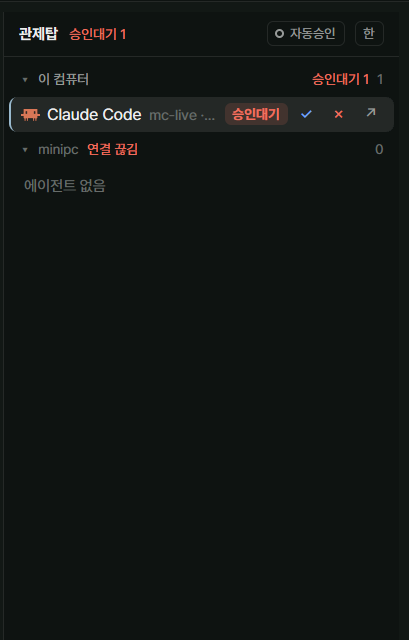
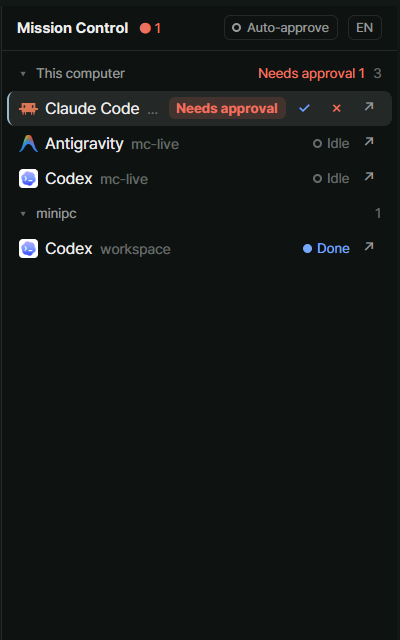
Show the preview in English and keep the top bar within 320px
In English and other long languages the top bar was wider than the
panel and the language button was pushed off its edge. The counts are
now a dot and a number (the words are in the tooltip and in each group
header), and the title is the part that shrinks.

Shorten the "needs approval" word in French, Spanish, Portuguese and
German so a waiting row keeps its three buttons, and test that every
status word stays within 14 characters.

diff --git a/mods/mission-control/ui.js b/mods/mission-control/ui.js
@@ -98,7 +98,16 @@ export function logBar(t, log, open, onToggle) {
 
 /** The top bar: title, how many need the person, auto-approve, the language switch. */
 export function topBar(t, sum, auto, onAuto, onLang) {
-  const chip = (status) => div().flex_none().text_size(11).text_color(t[status] ?? t.dim).child(`${tr(status)} ${sum[status]}`);
+  // A dot and a number: the words differ a lot in length between languages
+  // ("Braucht Freigabe"), and the bar must always have room for its two buttons.
+  // The words are in the tooltip and in each group's header.
+  const chip = (status) => div()
+    .id(`mc-sum-${status}`)
+    .flex_none()
+    .text_size(11)
+    .text_color(t[status] ?? t.dim)
+    .tooltip(`${tr(status)} ${sum[status]}`)
+    .child(`● ${sum[status]}`);
   return h_flex()
     .px(12)
     .h(36)
@@ -107,10 +116,11 @@ export function topBar(t, sum, auto, onAuto, onLang) {
     .items_center()
     .border_b(1)
     .border_color(t.border)
-    .child(div().text_size(12).font_semibold().text_color(t.foreground).child(tr("title")))
+    // The title gives way first: it shrinks and is cut with an ellipsis.
+    .child(div().min_w(0).truncate().text_size(12).font_semibold().text_color(t.foreground).child(tr("title")))
     .when(sum.blocked > 0, (el) => el.child(chip("blocked")))
     .when(sum.working > 0, (el) => el.child(chip("working")))
-    .child(div().flex_1())
+    .child(div().flex_1().min_w(0))
     .child(autoSwitch(t, auto, onAuto))
     .child(
       div()

diff --git a/mods/mission-control/strings.js b/mods/mission-control/strings.js
@@ -219,7 +219,7 @@ export const STR = {
     title: "Torre de control",
     local: "Este equipo",
     working: "Trabajando",
-    blocked: "Pide aprobación",
+    blocked: "Por aprobar",
     done: "Terminado",
     idle: "Inactivo",
     unknown: "Desconocido",
@@ -272,7 +272,7 @@ export const STR = {
     title: "Kontrollturm",
     local: "Dieser Computer",
     working: "Arbeitet",
-    blocked: "Braucht Freigabe",
+    blocked: "Freigabe nötig",
     done: "Fertig",
     idle: "Untätig",
     unknown: "Unbekannt",
@@ -325,7 +325,7 @@ export const STR = {
     title: "Tour de contrôle",
     local: "Cet ordinateur",
     working: "En cours",
-    blocked: "Attend une approbation",
+    blocked: "À approuver",
     done: "Terminé",
     idle: "Inactif",
     unknown: "Inconnu",
@@ -378,7 +378,7 @@ export const STR = {
     title: "Torre de controle",
     local: "Este computador",
     working: "Trabalhando",
-    blocked: "Precisa de aprovação",
+    blocked: "A aprovar",
     done: "Concluído",
     idle: "Ocioso",
     unknown: "Desconhecido",

diff --git a/RECIPE.md b/RECIPE.md
@@ -8,7 +8,7 @@ A right-hand panel that lists every coding agent on every machine as a one-line 
 
 A column 320px wide (240 to 560), `chrome` background, 1px `border` on its left edge, 13px text. Top to bottom:
 
-- **Top bar**, 36px, 1px `border` below. Left: the title ("관제탑" / "Mission Control"), 12px semibold. Then, only when above zero, "승인대기 N" in `blocked` and "실행 N" in `working`, 11px. Right: the auto-approve switch (a 20px pill: a 7px ring and "자동승인" in `muted` while off; a filled dot, `blocked` text, `blocked` border and a 15% `blocked` fill while on), then the language button (a 20px pill reading the current language's short label: EN, 한, 日, 中, ES, DE, FR, PT).
+- **Top bar**, 36px, 1px `border` below. Left: the title ("Mission Control"), 12px semibold; it is the part that gives way, cut with an ellipsis when the bar is too narrow. Then, only when above zero, "● N" in `blocked` and "● N" in `working`, 11px, with the words ("Needs approval 1") in the tooltip: the words are much longer in some languages, and the two buttons on the right must always fit in 320px. Right: the auto-approve switch (a 20px pill: a 7px ring and "자동승인" in `muted` while off; a filled dot, `blocked` text, `blocked` border and a 15% `blocked` fill while on), then the language button (a 20px pill reading the current language's short label: EN, 한, 日, 中, ES, DE, FR, PT).
 - **List**, fills the rest and scrolls. One group per machine: this computer first, then machines by name. A group header is 28px: a fold mark (▾ / ▸), the machine's name ("이 컴퓨터" for this one), "연결 중" or "연결 끊김" when its layout is not ready (the latter in `blocked`), the group's waiting count, and its agent count. With one machine only, the header is left out. A machine with no agents shows "에이전트 없음".
 - **Agent row**, 28px, 7px corners: the program's icon (15px), its name (up to 96px), "space · tab" in `dim` 11.5px (the tab only if someone named it), the status, then buttons. A 2px left edge in `accent` marks the row the prompt goes to. The focused agent's row has the `selected` background. Rows of a machine that can't be reached are at 55% opacity.
 - **Sub-agent row**, 24px, under its parent: tree guides (`├`, `└`, `│`) in `input`, a 13px icon, its name in `muted` 12px, status, buttons.
@@ -51,7 +51,7 @@ A column 320px wide (240 to 560), `chrome` background, 1px `border` on its left 
 - `herdr` functions: `agents`, `terminals`, `machines`, `spaces`, `theme`, `run`, `hc`, `notify`, `shared`, `setShared`. Commands: `pane.focus {pane}`, `terminal.peek {terminal}`.
 - Programs it runs: `hc` only, through `hc()`. No `exec`, no `fetch`, no files read or written.
 - Art: none of its own; program icons come from `AgentInfo.program`.
-- Tests (plain node, outside the mod folder): `npm test`, 66 tests, with two screens captured from Claude Code 2.1.322.
+- Tests (plain node, outside the mod folder): `npm test`, 67 tests, with two screens captured from Claude Code 2.1.322.
 
 ## Watch out
 
@@ -69,12 +69,13 @@ A column 320px wide (240 to 560), `chrome` background, 1px `border` on its left 
 - A placeholder is fixed when an `InputState` is made, and `InputState.new` can't run during render: make one input per language in `init()`.
 - The translations other than English and Korean were not checked by native speakers.
 - `herdr-app shot` returns the last drawn frame; with the window behind others it can be minutes old.
+- Keep each status word to 14 characters or fewer in every language, or the row's buttons are pushed off the edge (a test checks this).
 - **Not checked yet**: Codex's dialog (written from memory), agy (no spec, always held), agents on another machine.
 - Codex and other agents answer with Enter / Esc by default; set their keys in `control.js` once confirmed.
 
 ## Done when
 
-- `herdr-app check mods/mission-control` passes and `npm test` reports 66 passing.
+- `herdr-app check mods/mission-control` passes and `npm test` reports 67 passing.
 - With Claude Code running in a tab, its row shows with the right status as it works, waits and finishes.
 - On a waiting row, ✓ closes the dialog and the command runs; ✗ closes it and nothing runs.
 - A line typed in the prompt bar arrives in the target agent; while it waits on a dialog the line is refused with a message.
